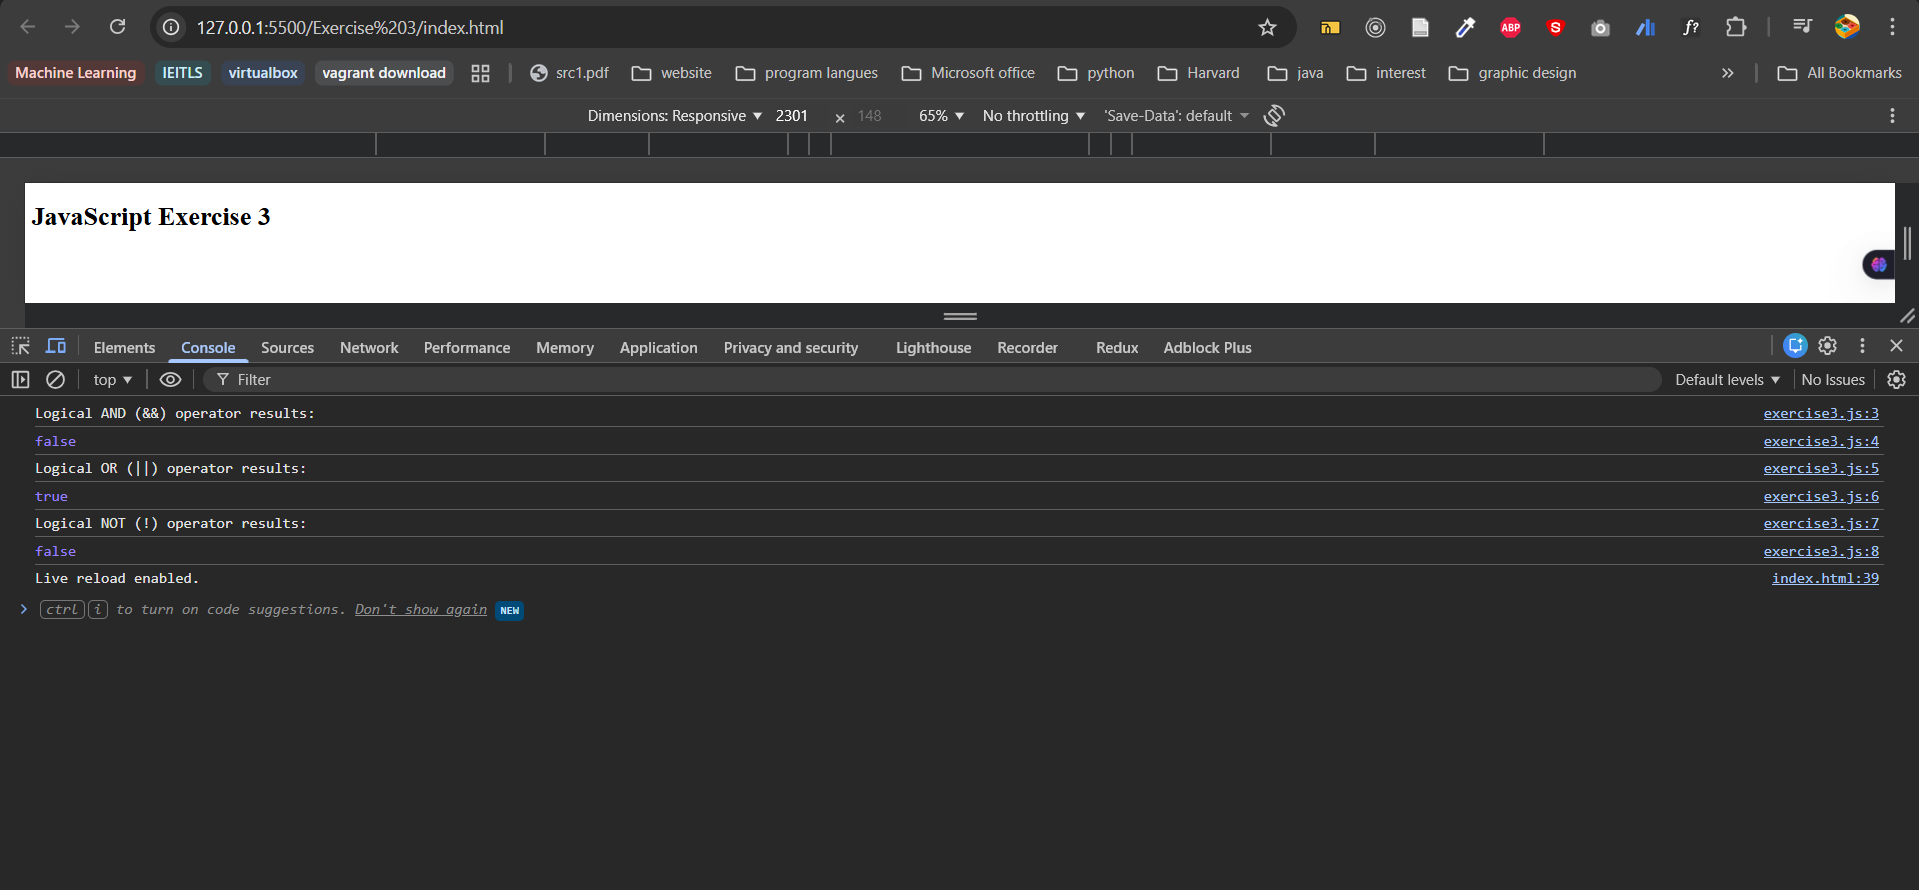
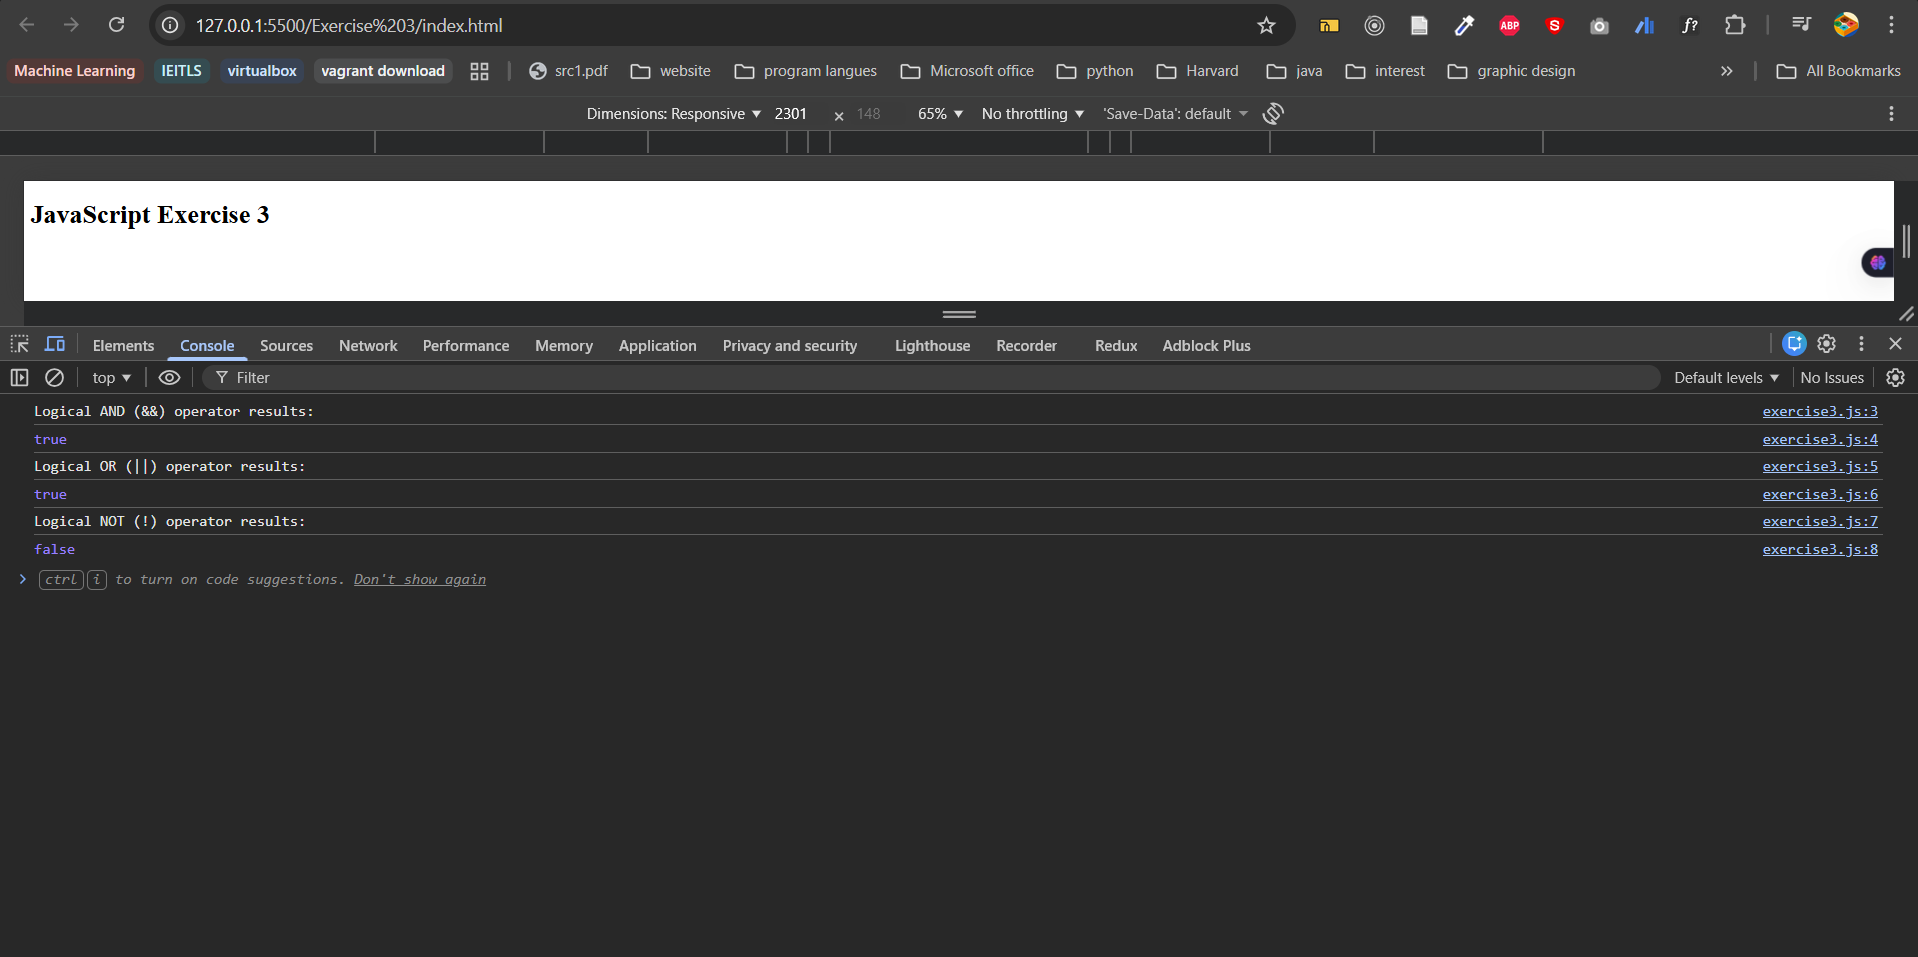
exercise 3

diff --git a/Exercise 3/exercise3.js b/Exercise 3/exercise3.js
@@ -1,5 +1,5 @@
 let isSunny = true;
-let isWeekend = false;
+let isWeekend = true;
 console.log("Logical AND (&&) operator results:");
 console.log(isSunny && isWeekend); 
 console.log("Logical OR (||) operator results:");
